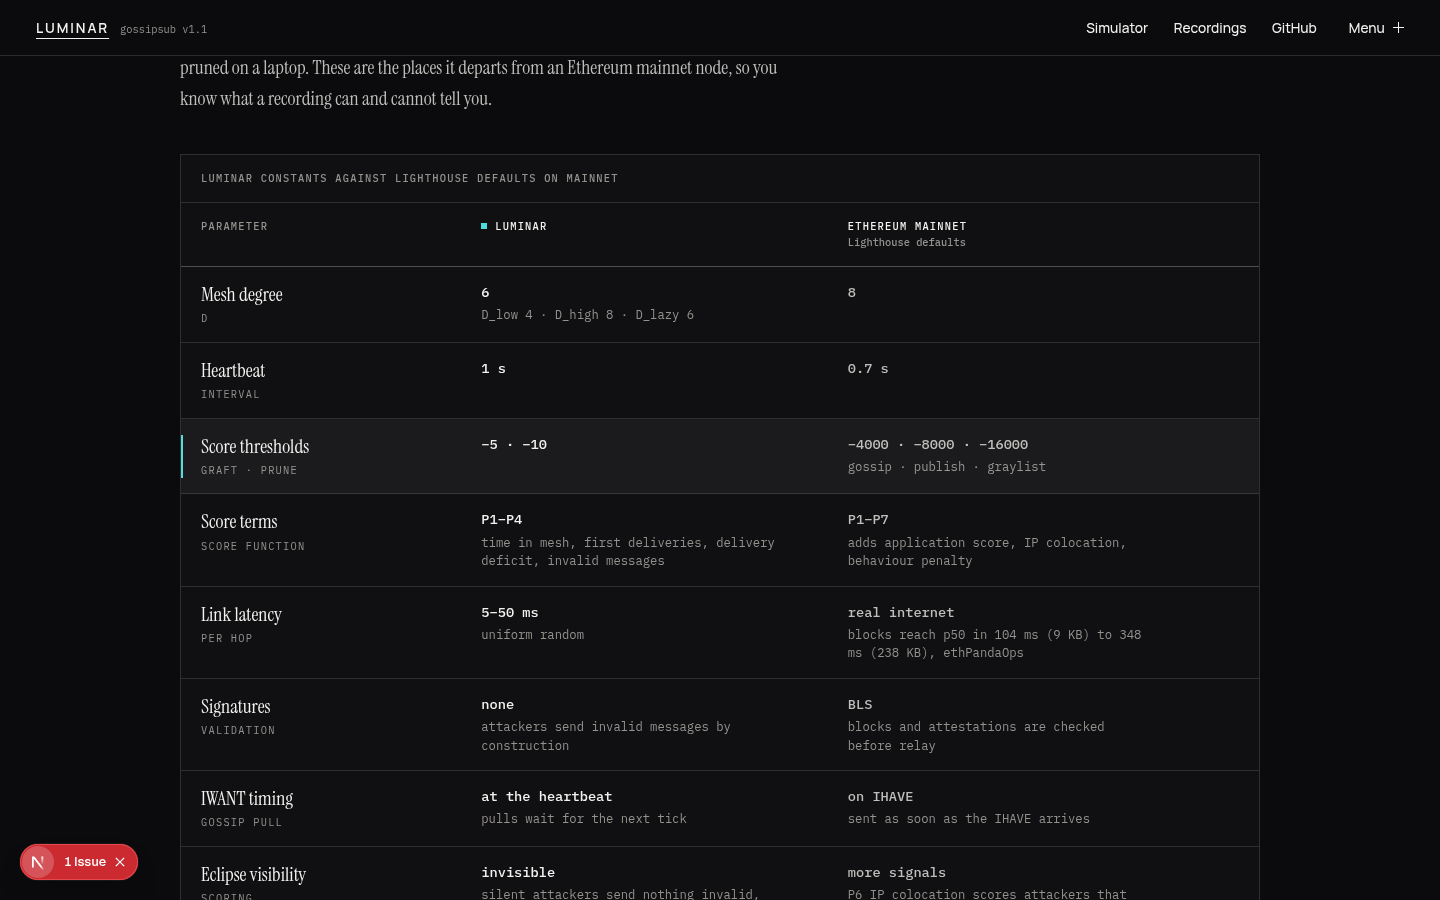
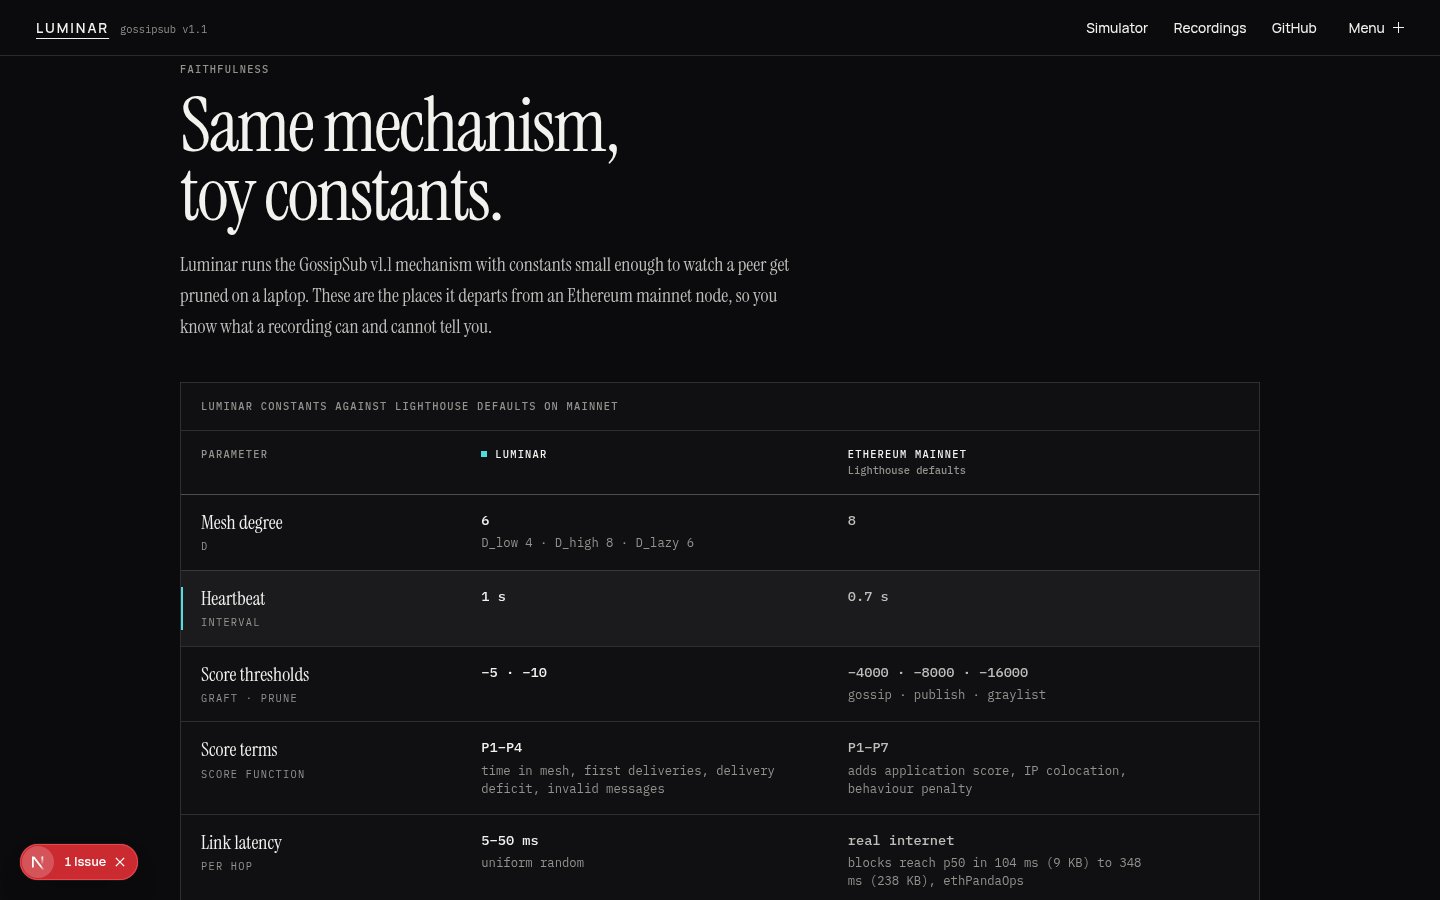
fix(web): landing lane D review round 1
Faithfulness table on phones: fixed 9rem parameter column and 11rem value
columns (table-layout fixed) so each value column fits beside the sticky
column and the mainnet values scroll fully clear of it.

diff --git a/web/components/landing/Faithfulness.module.css b/web/components/landing/Faithfulness.module.css
@@ -53,7 +53,10 @@
   .table th, .table td { padding: var(--s-3) var(--s-4); }
   .head { padding: var(--s-3) var(--s-4); }
   .hint { display: inline; }
-  .table { min-width: 600px; }
+  /* fixed widths: each value column (11rem) fits beside the sticky 9rem column in a 356 px scroller, so every value can scroll clear of it */
+  .table { width: 31rem; min-width: 0; table-layout: fixed; }
+  .table thead th:first-child { width: 9rem; }
+  .table thead th:nth-child(n + 2) { width: 11rem; white-space: normal; }
   /* the parameter column stays put while the values scroll under it */
   .table tr > :first-child { position: sticky; left: 0; z-index: 1; background: var(--panel); box-shadow: inset calc(-1 * var(--hair-w)) 0 var(--hair); }
 }
